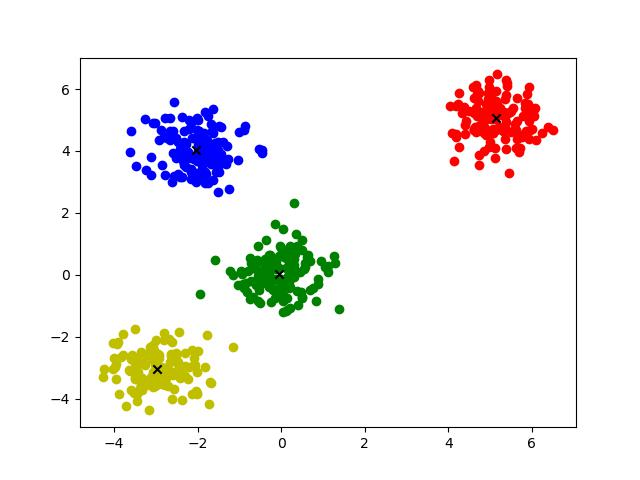
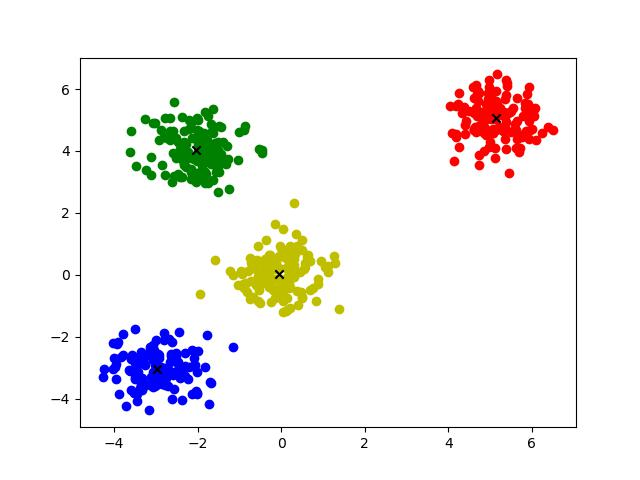
Imporve k_means

diff --git a/K_means.py b/K_means.py
@@ -165,6 +165,49 @@ class K_means:
             plt.scatter(g[:, 0], g[:, 1], color=colors[i], zorder=1)
         plt.savefig("Reasult3.jpg")
         plt.show()
+    
+    def start_k_means_with_guess(self, k: int) -> None:
+        start_time = time.time()
+        c_k = []
+        c_k.append(self.points[0])
+        
+        for _ in range(k - 1):
+            distances = np.min(
+                [np.linalg.norm(data - c, axis=1) for c in c_k], axis=0
+            )
+
+            selected_point = np.argmax(distances)
+            c_k.append(self.points[selected_point])
+        
+        while True:
+            g_k = [[] for _ in range(k)]
+            distances = np.linalg.norm(
+                self.points[:, np.newaxis] - c_k, axis=2)
+
+            selected_c = np.argmin(distances, axis=1)
+            for i in range(k):
+                g_k[i] = self.points[selected_c == i]
+
+            new_c = np.array([
+                g.mean(axis=0) if len(g) > 0 else random.choice(self.points)
+                for g in g_k
+            ])
+
+            if np.all(np.linalg.norm(new_c - c_k, axis=1) <= 0.05):
+                break
+            c_k = new_c
+        end = time.time()
+        logger.info("Used time:%s", end - start_time)
+        
+        logger.info("plotting...")
+        colors = "rbgy"
+        print(f"Centroid: {c_k}")
+        for i, centroid in enumerate(c_k):
+            plt.scatter(centroid[0], centroid[1], color="black", marker='x', zorder=3)
+        for i, g in enumerate(g_k):
+            plt.scatter(g[:, 0], g[:, 1], color=colors[i], zorder=1)
+        plt.savefig("Reasult3.jpg")
+        plt.show()
 
 if __name__ == "__main__":
     # generator = Generator(centroids_num=4)
@@ -174,4 +217,5 @@ if __name__ == "__main__":
     data = np.genfromtxt("points.csv", delimiter=',')
     k_means = K_means(data=data)
     # k_means.start_k_means(4)
-    k_means.start_k_means_numpy(4)
+    # k_means.start_k_means_numpy(4)
+    k_means.start_k_means_with_guess(4)
